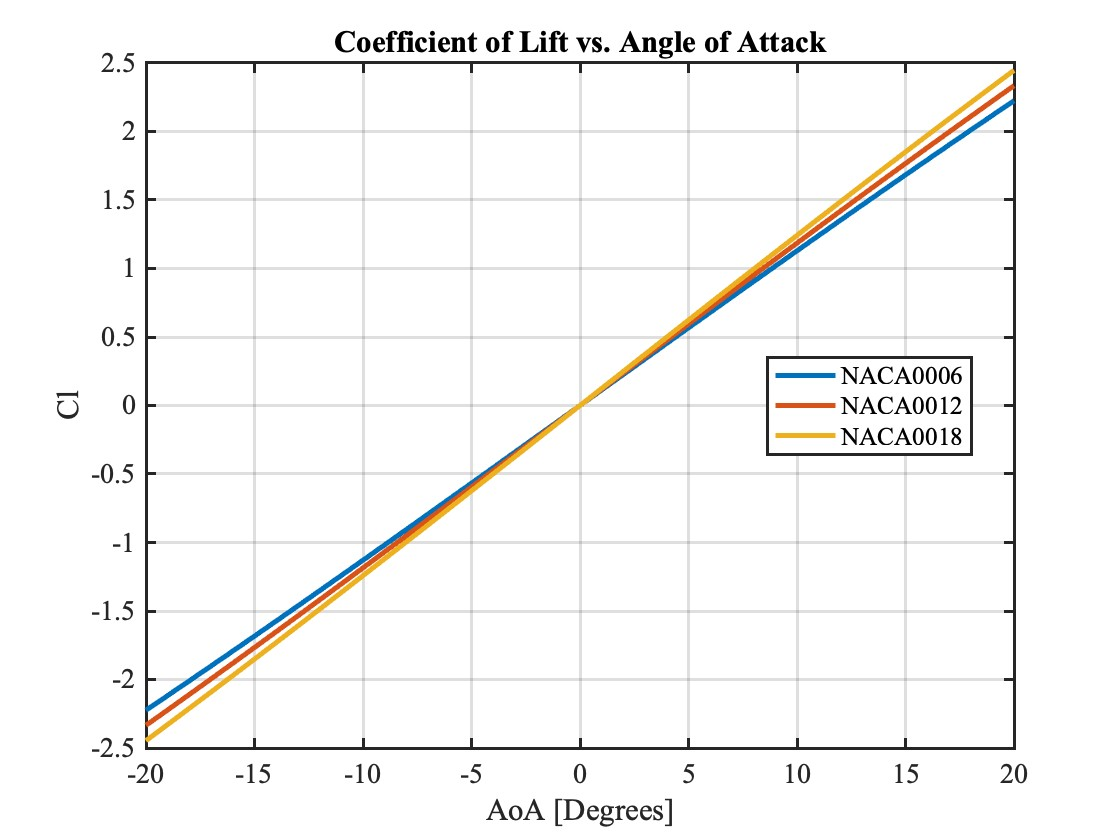
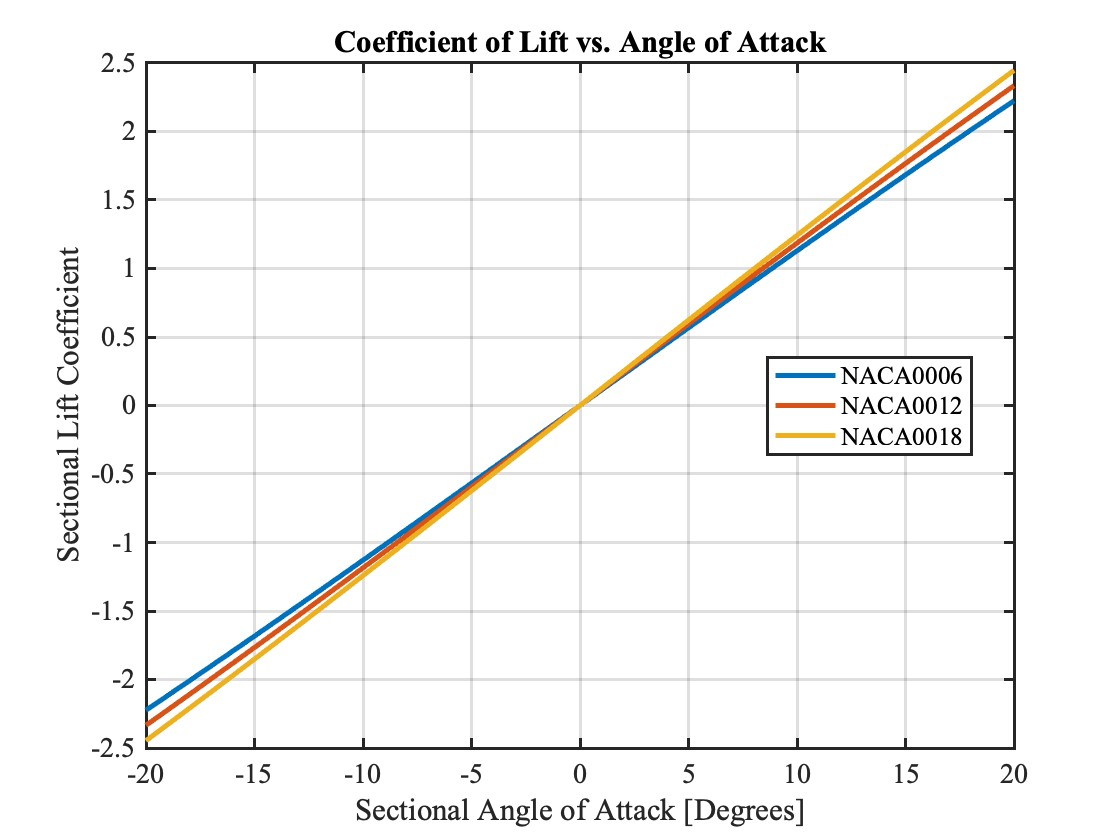
plot update

Changed region(s): [[0.0312, 0.3095, 0.0938, 0.681], [0.3125, 0.9286, 0.7188, 0.9905]]

diff --git a/mainDriver.m b/mainDriver.m
@@ -122,8 +122,9 @@ airfoils = [];
     plot(alphaVals,airfoils(2).cl,'DisplayName',strcat('NACA',NACA{2}));
     hold on; 
     plot(alphaVals,airfoils(3).cl,'DisplayName',strcat('NACA',NACA{3}));
-    xlabel('AoA [Degrees]');
-    ylabel('Cl')
+    xlabel('Sectional Angle of Attack [Degrees]');
+    ylabel('Sectional Lift Coefficient')
+    title('Cl vs. AoA');
     title('Coefficient of Lift vs. Angle of Attack');
     legend('Location','best');
 
